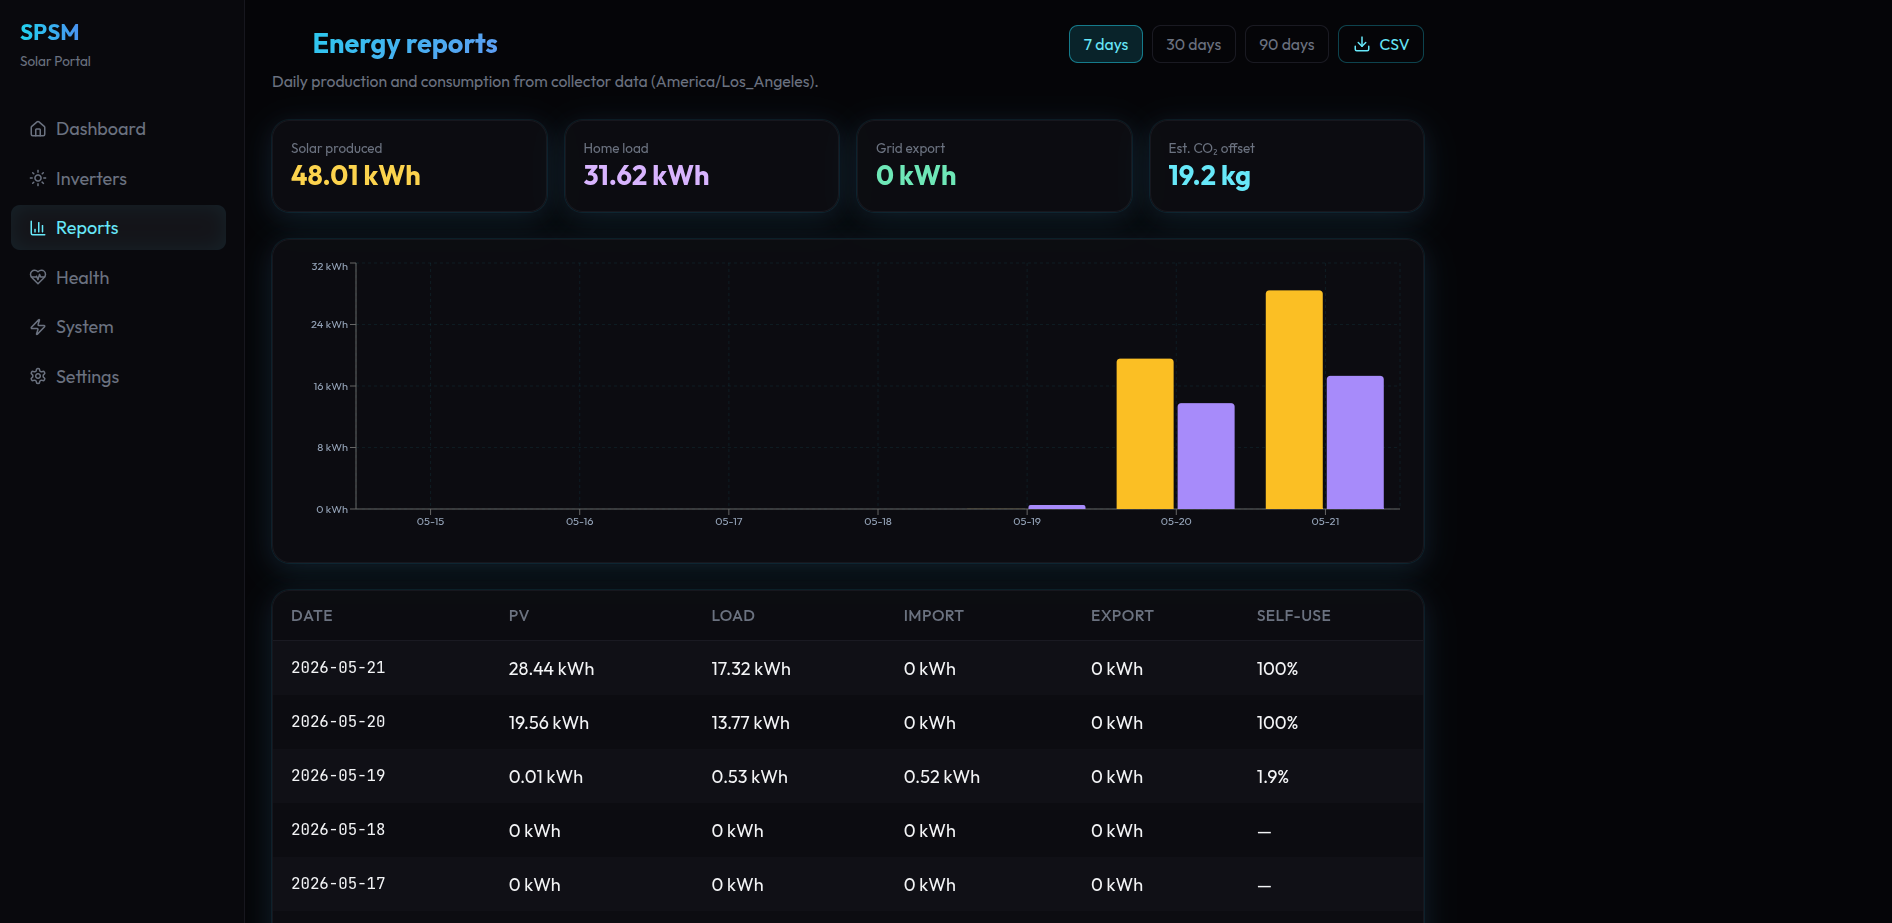
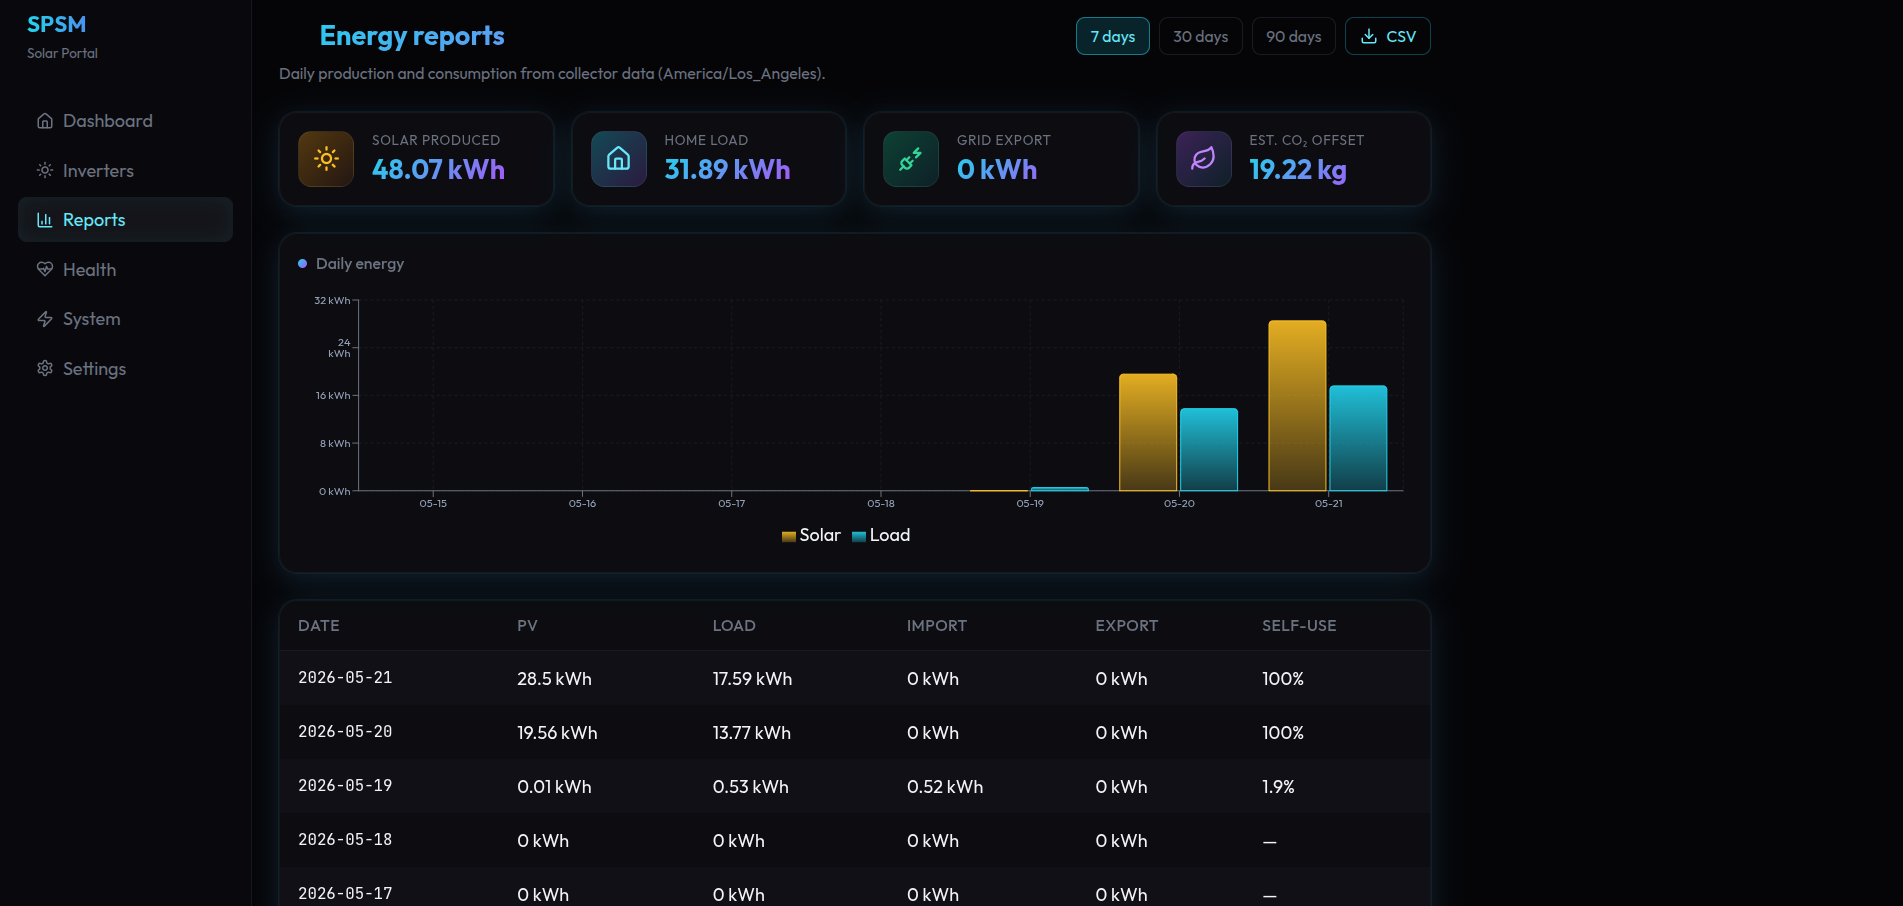
updates

diff --git a/frontend/src/components/ReportsEnergyChart.tsx b/frontend/src/components/ReportsEnergyChart.tsx
@@ -1,0 +1,85 @@
+import {
+  Bar,
+  BarChart,
+  CartesianGrid,
+  Legend,
+  ResponsiveContainer,
+  Tooltip,
+  XAxis,
+  YAxis,
+} from "recharts";
+
+export interface ReportsChartPoint {
+  date: string;
+  pv: number;
+  load: number;
+}
+
+interface Props {
+  data: ReportsChartPoint[];
+}
+
+export function ReportsEnergyChart({ data }: Props) {
+  return (
+    <div className="card-glow p-4 h-[340px]">
+      <h3 className="text-sm font-medium text-mist mb-4 flex items-center gap-2">
+        <span className="w-2 h-2 rounded-full bg-gradient-brand" />
+        Daily energy
+      </h3>
+      <ResponsiveContainer width="100%" height="85%">
+        <BarChart data={data} margin={{ top: 8, right: 8, left: 0, bottom: 0 }}>
+          <defs>
+            <linearGradient id="reportsPvGrad" x1="0" y1="0" x2="0" y2="1">
+              <stop offset="0%" stopColor="#fbbf24" stopOpacity={0.9} />
+              <stop offset="100%" stopColor="#fbbf24" stopOpacity={0.25} />
+            </linearGradient>
+            <linearGradient id="reportsLoadGrad" x1="0" y1="0" x2="0" y2="1">
+              <stop offset="0%" stopColor="#22d3ee" stopOpacity={0.9} />
+              <stop offset="100%" stopColor="#22d3ee" stopOpacity={0.25} />
+            </linearGradient>
+          </defs>
+          <CartesianGrid stroke="#1a1a22" strokeDasharray="3 3" />
+          <XAxis dataKey="date" stroke="#6b7280" fontSize={11} tick={{ fill: "#94a3b8" }} />
+          <YAxis stroke="#6b7280" fontSize={11} unit=" kWh" tick={{ fill: "#94a3b8" }} />
+          <Tooltip
+            cursor={{
+              fill: "rgba(34, 211, 238, 0.1)",
+              stroke: "rgba(34, 211, 238, 0.35)",
+              strokeWidth: 1,
+            }}
+            contentStyle={{
+              background: "#0d0d12",
+              border: "1px solid rgba(34,211,238,0.3)",
+              borderRadius: 12,
+            }}
+            labelStyle={{ color: "#67e8f9" }}
+            formatter={(value) => {
+              const n = typeof value === "number" ? value : Number(value);
+              return [
+                `${Number.isFinite(n) ? n.toFixed(2) : "—"} kWh`,
+                "",
+              ];
+            }}
+          />
+          <Legend />
+          <Bar
+            dataKey="pv"
+            name="Solar"
+            fill="url(#reportsPvGrad)"
+            stroke="#fbbf24"
+            strokeWidth={1}
+            radius={[4, 4, 0, 0]}
+          />
+          <Bar
+            dataKey="load"
+            name="Load"
+            fill="url(#reportsLoadGrad)"
+            stroke="#22d3ee"
+            strokeWidth={1}
+            radius={[4, 4, 0, 0]}
+          />
+        </BarChart>
+      </ResponsiveContainer>
+    </div>
+  );
+}

diff --git a/frontend/src/pages/ReportsPage.tsx b/frontend/src/pages/ReportsPage.tsx
@@ -1,7 +1,8 @@
 import { useCallback, useEffect, useState } from "react";
-import { Bar, BarChart, CartesianGrid, ResponsiveContainer, Tooltip, XAxis, YAxis } from "recharts";
-import { BarChart3, Download, Loader2 } from "lucide-react";
+import { BarChart3, Download, Home, Leaf, Loader2, PlugZap, Sun } from "lucide-react";
 import { Link } from "react-router-dom";
+import { ReportsEnergyChart } from "../components/ReportsEnergyChart";
+import { StatCard } from "../components/StatCard";
 import { SolarThrobber } from "../components/SolarThrobber";
 import { reportsApi, type DailyReportResponse } from "../lib/api";
 import { getSiteTimezone, loadSiteSettings } from "../lib/siteSettings";
@@ -110,42 +111,34 @@ export function ReportsPage() {
 
       {data && (
         <>
-          <div className="grid gap-4 sm:grid-cols-2 lg:grid-cols-4">
-            <div className="card-glow p-4">
-              <p className="text-xs text-mist">Solar produced</p>
-              <p className="text-2xl font-bold text-amber-300">{data.totals.pv_kwh} kWh</p>
-            </div>
-            <div className="card-glow p-4">
-              <p className="text-xs text-mist">Home load</p>
-              <p className="text-2xl font-bold text-purple-300">{data.totals.load_kwh} kWh</p>
-            </div>
-            <div className="card-glow p-4">
-              <p className="text-xs text-mist">Grid export</p>
-              <p className="text-2xl font-bold text-emerald-300">{data.totals.export_kwh} kWh</p>
-            </div>
-            <div className="card-glow p-4">
-              <p className="text-xs text-mist">Est. CO₂ offset</p>
-              <p className="text-2xl font-bold text-cyan-glow">{data.totals.co2_kg} kg</p>
-            </div>
+          <div className="grid gap-4 sm:grid-cols-2 lg:grid-cols-2 xl:grid-cols-4">
+            <StatCard
+              icon={Sun}
+              label="Solar produced"
+              value={`${data.totals.pv_kwh} kWh`}
+              accent="amber"
+            />
+            <StatCard
+              icon={Home}
+              label="Home load"
+              value={`${data.totals.load_kwh} kWh`}
+              accent="cyan"
+            />
+            <StatCard
+              icon={PlugZap}
+              label="Grid export"
+              value={`${data.totals.export_kwh} kWh`}
+              accent="emerald"
+            />
+            <StatCard
+              icon={Leaf}
+              label="Est. CO₂ offset"
+              value={`${data.totals.co2_kg} kg`}
+              accent="purple"
+            />
           </div>
 
-          <div className="card-glow p-4 h-72">
-            <ResponsiveContainer width="100%" height="100%">
-              <BarChart data={chartData}>
-                <CartesianGrid strokeDasharray="3 3" stroke="rgba(34,211,238,0.08)" />
-                <XAxis dataKey="date" tick={{ fill: "#94a3b8", fontSize: 11 }} />
-                <YAxis tick={{ fill: "#94a3b8", fontSize: 11 }} unit=" kWh" />
-                <Tooltip
-                  contentStyle={{
-                    background: "#0f172a",
-                    border: "1px solid rgba(34,211,238,0.2)",
-                  }}
-                />
-                <Bar dataKey="pv" name="PV kWh" fill="#fbbf24" radius={[4, 4, 0, 0]} />
-                <Bar dataKey="load" name="Load kWh" fill="#a78bfa" radius={[4, 4, 0, 0]} />
-              </BarChart>
-            </ResponsiveContainer>
-          </div>
+          <ReportsEnergyChart data={chartData} />
 
           <div className="card-glow overflow-hidden">
             <table className="table-zebra">

diff --git a/frontend/src/pages/HealthPage.tsx b/frontend/src/pages/HealthPage.tsx
@@ -139,7 +139,7 @@ export function HealthPage() {
             </div>
           </div>
 
-          <details className="card-glow p-5 group" open>
+          <details className="card-glow p-5 group">
             <summary className="text-sm font-medium text-cyan-glow/90 flex items-center gap-2 cursor-pointer select-none list-none [&::-webkit-details-marker]:hidden">
               <Info className="w-4 h-4 shrink-0" />
               What we check
@@ -161,7 +161,9 @@ export function HealthPage() {
                     })
                   : defaultHealthThresholdsLine("f")}
               </li>
-              <li>Sharp drop vs recent average production</li>
+              <li>
+                Sharp drop vs recent average (mid-day only — skipped near sunset)
+              </li>
               <li>Non-zero MID / transfer switch state</li>
               <li>Fault / alarm / error fields in latest inverter or system snapshots</li>
             </ul>

diff --git a/frontend/src/components/PowerChart.tsx b/frontend/src/components/PowerChart.tsx
@@ -52,6 +52,11 @@ export function PowerChart({ data, range }: Props) {
           />
           <YAxis stroke="#6b7280" fontSize={11} unit=" kW" />
           <Tooltip
+            cursor={{
+              fill: "rgba(34, 211, 238, 0.08)",
+              stroke: "rgba(34, 211, 238, 0.25)",
+              strokeWidth: 1,
+            }}
             contentStyle={{
               background: "#0d0d12",
               border: "1px solid rgba(34,211,238,0.3)",

diff --git a/backend/app/health_checks.py b/backend/app/health_checks.py
@@ -16,7 +16,7 @@ from app.json_util import safe_float
 from app.models import DeviceSnapshot, Reading
 from app.pvs_client import PvsClient
 from app.settings_store import site_timezone_from_settings, temp_config_from_settings
-from app.timezone_util import is_daylight_local
+from app.timezone_util import is_daylight_local, is_sunset_ramp_local
 
 logger = logging.getLogger(__name__)
 
@@ -212,8 +212,13 @@ async def evaluate_site_health(
                     )
                 )
 
-    # --- Sudden production drop ---
-    if len(recent_rows) >= 5:
+    # --- Sudden production drop (mid-day only; skip normal sunset ramp) ---
+    tz_name = site_timezone_from_settings(settings)
+    if (
+        len(recent_rows) >= 5
+        and _is_daylight(now, settings)
+        and not is_sunset_ramp_local(tz_name, now)
+    ):
         recent_cut = now - timedelta(minutes=PRODUCTION_DROP_RECENT_MIN)
         base_end = now - timedelta(minutes=PRODUCTION_DROP_RECENT_MIN)
         base_start = now - timedelta(minutes=PRODUCTION_DROP_BASELINE_MIN)
@@ -248,7 +253,10 @@ async def evaluate_site_health(
                         f"Recent average {recent_avg:.2f} kW vs {baseline_avg:.2f} kW "
                         f"in the prior window (~{PRODUCTION_DROP_BASELINE_MIN - PRODUCTION_DROP_RECENT_MIN} min)."
                     ),
-                    detail="May be clouds passing, inverter fault, or grid event.",
+                    detail=(
+                        "May be clouds passing, inverter fault, or grid event. "
+                        "Ignored during the last few hours before sunset (normal ramp-down)."
+                    ),
                 )
             )
 

diff --git a/backend/app/timezone_util.py b/backend/app/timezone_util.py
@@ -8,6 +8,8 @@ from zoneinfo import ZoneInfo, ZoneInfoNotFoundError
 DEFAULT_TIMEZONE = "America/Los_Angeles"
 DAYLIGHT_START_HOUR = 6
 DAYLIGHT_END_HOUR = 20
+# Skip “sharp drop” alerts in the late-day ramp (normal sunset, not clouds).
+SUNSET_RAMP_HOURS_BEFORE_END = 3
 
 
 def resolve_timezone(raw: str | None) -> ZoneInfo:
@@ -39,6 +41,16 @@ def is_daylight_local(tz_name: str | None, now: datetime | None = None) -> bool:
         now = now.replace(tzinfo=UTC)
     h = now.astimezone(resolve_timezone(tz_name)).hour
     return DAYLIGHT_START_HOUR <= h < DAYLIGHT_END_HOUR
+
+
+def is_sunset_ramp_local(tz_name: str | None, now: datetime | None = None) -> bool:
+    """Late daylight hours when PV normally falls — not used for sudden-drop alerts."""
+    now = now or datetime.now(UTC)
+    if now.tzinfo is None:
+        now = now.replace(tzinfo=UTC)
+    h = now.astimezone(resolve_timezone(tz_name)).hour
+    ramp_start = DAYLIGHT_END_HOUR - SUNSET_RAMP_HOURS_BEFORE_END
+    return ramp_start <= h < DAYLIGHT_END_HOUR
 
 
 def local_date_key(ts: datetime, tz_name: str | None) -> str: